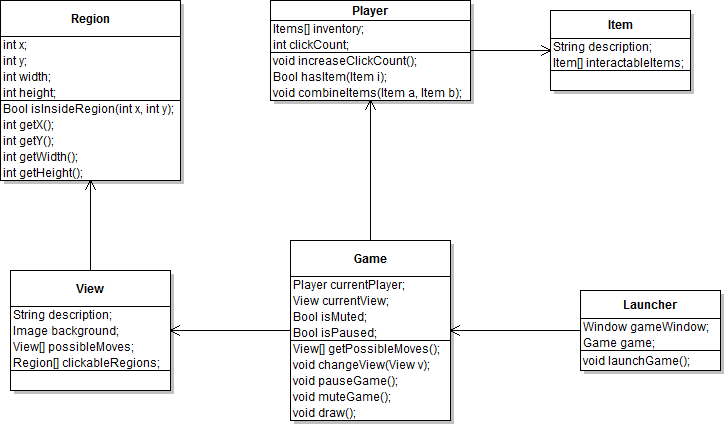
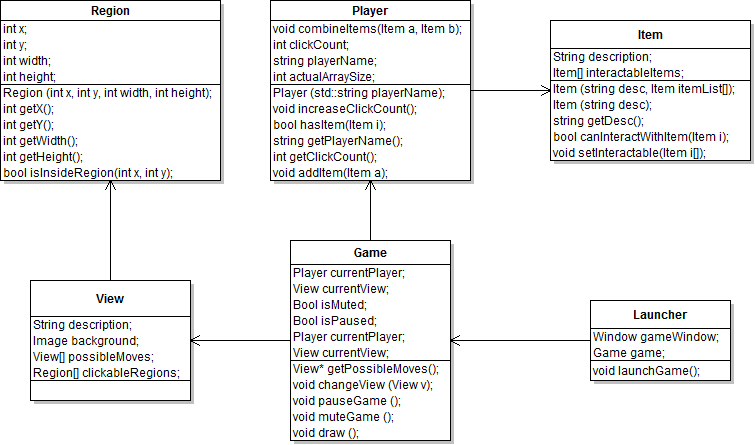
updating Item header file and the UML

Changed region(s): [[0.0, 0.0, 1.0, 1.0], [0.6979, 0.0306, 1.0, 0.3671], [0.091, 0.0, 0.1821, 0.0612]]

diff --git a/Beer/Beer/Beer/Item.h b/Beer/Beer/Beer/Item.h
@@ -7,9 +7,10 @@ class Item {
 		Item (string desc);
 		string getDesc();
 		bool canInteractWithItem(Item i);
+		void setInteractable(Item i[]);
 	private:
 		string description;
-	//	static Item interactableItems[25];// have to set arbitrary size
+		static Item interactableItems[25];// have to set arbitrary size
 
 
 
